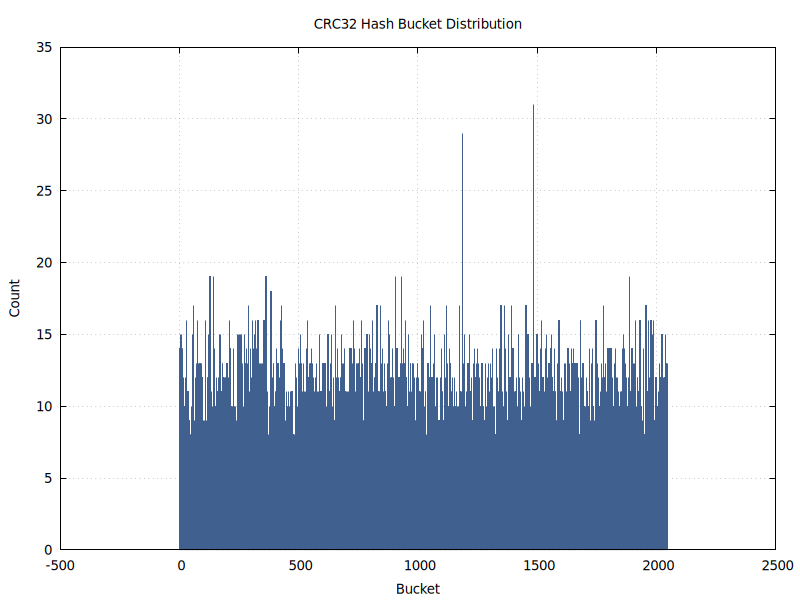
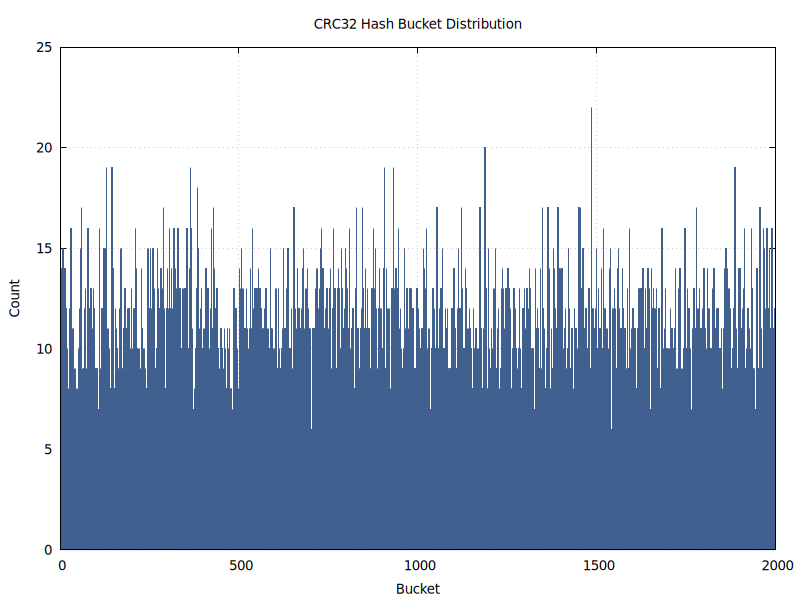
графики подровнял

diff --git a/src/hash_distr_plot.cpp b/src/hash_distr_plot.cpp
@@ -96,6 +96,7 @@ void save_distr_plot_descr(uint16_t* buckets_sizes, size_t* bucket_size_counters
                 "set grid\n"
                 "set boxwidth 0.8 relative\n"
                 "set style fill solid\n\n"
+                "set xrange [0:*]\n"
                 "plot \'data/bucket_distribution.csv\' using 1:2 skip 1 with boxes lc rgb \"#406090\" notitle\n\n\n"
 
                 "set datafile separator comma\n"
@@ -107,6 +108,7 @@ void save_distr_plot_descr(uint16_t* buckets_sizes, size_t* bucket_size_counters
                 "set grid\n"
                 "set boxwidth 0.8 relative\n"
                 "set style fill solid\n\n"
+                "set xrange [0:*]\n"
                 "plot \'data/sizes_distribution.csv\' using 1:2 skip 1 with boxes lc rgb \"#406090\" notitle\n",
                 fname_buckets_distr_plot, fname_size_distr_plot);
 

diff --git a/src/main.cpp b/src/main.cpp
@@ -34,7 +34,7 @@ int main() {
         search(&htbl, buffer);
     }
 
-    //get_spectrum(&htbl);
+    get_spectrum(&htbl);
     check_word(&htbl, "you", html_stream);
 
     destroy_hashtable(&htbl);
